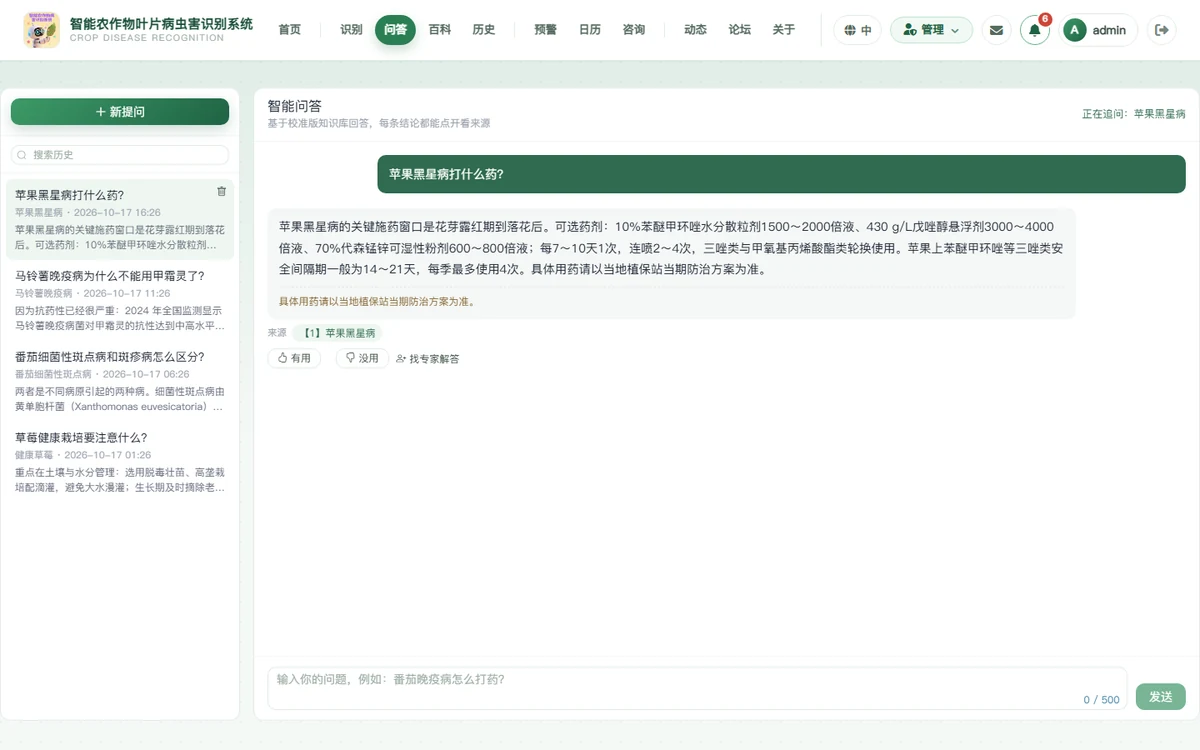
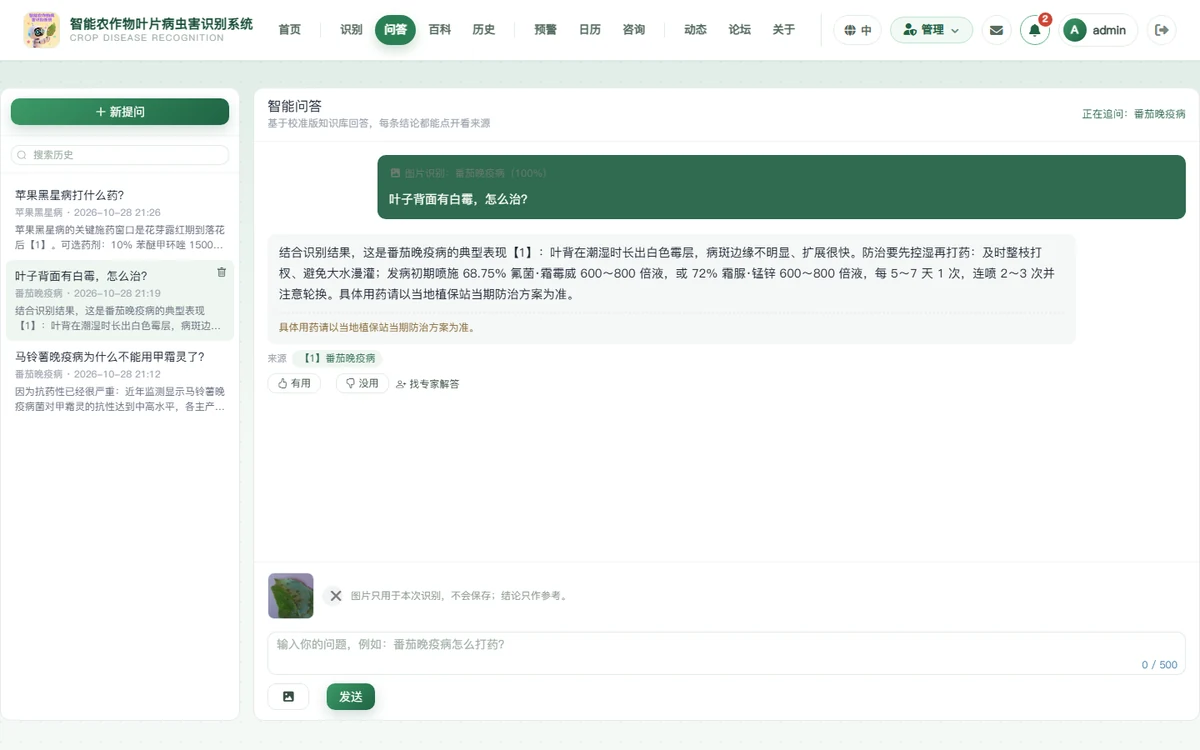
docs: 记录第 228–229 批（多轮 / 会话上限 / 图片问答 / 助手质量看板），并重截 README 配图
- 系统完善记录：① 对「功能完善清单」的 14 条核对表（其中 P2-8"50 条静默 429"
  与代码不符 —— 实际是**根本没有上限**）；② 三件交付的做法与取舍；
  ③ 用户当场指出的两处文案返工（no_source 标识符、裸语言码 en/zh）
- 智能回答助手框架：第十一节补记（多轮 / 上限 / 看板 / 看图），并注明配置以 settings 为准
- 角色与权限矩阵：重新生成（新增 /api/admin/assistant/stats/ 与 /admin/assistant 页面）
- README：助手能力补"可上传叶片照片"、管理后台补「助手质量」一行，测试数 858 → 910
- 图片：farmer-assistant 重截（含上传区）、新增 farmer-assistant-answer（回答与来源）、
  新增 admin-assistant-quality（质量看板）

验证：两张新图与一张重截图已由 capture 脚本生成 → optimize_readme_images.py 转 WebP
（全仓 LF；README 图片路径与 docs/images 实际文件一一对应）

diff --git a/docs/系统完善记录.md b/docs/系统完善记录.md
@@ -17753,3 +17753,188 @@ for row in queryset.order_by().values('status').annotate(n=Count('id')):
 第一次验证英文摘要"没变化"，我差点当成代码没生效 —— 实际是我在探针里写了
 `localStorage.setItem('locale', 'en')`，而项目的键是 **`app_locale`**。
 **验证失败时先怀疑探针**，别急着改产品代码。
+
+## 二百一十九、第 228 批：核对一份「功能完善清单」，并补掉其中三处真缺口
+
+用户给了 `识别系统功能完善清单.md`（Doubao 生成，基于本仓代码与 docs 核对），要求
+"检查一下是否正确，并且完善功能"。所以这批分两半：**逐条核对**，然后**补最该补的**。
+
+### 一、核对结论
+
+| 清单条目 | 核对结果 | 依据 |
+|---|---|---|
+| P0-1 多轮无历史上下文 | ✅ 对 | `prompts.build_messages()` 只返回 `[system, user]`；`_prepare()` 从不读 `session.messages` |
+| P0-2 纯关键词 2~4 字滑窗、无同义词 | ✅ 对 | `retriever._tokens()`；模块 docstring 里明确写了"这个规模不做向量" |
+| P1-3 缺助手质量看板 | ✅ 对 | 只有用户侧 `/api/assistant/*`，没有管理端聚合接口，也没有页面 |
+| P1-4 "没用"/no_source 无回流 | ✅ 对 | `verdict`/`feedback_note` 只落库，没有任何地方聚合 |
+| P2-5 无相关问题推荐 | ✅ 对 | 没有推荐逻辑 |
+| P2-6 知识时效性无追踪 | ✅ 对 | `PestInfo` 没有"最后复核时间"这类字段 |
+| P2-7 会话标题取首问前 30 字 | ✅ 对 | `TITLE_CHARS = 30` |
+| P2-8 **"到 50 条硬截断，静默 429"** | ❌ **不对，而且是往好里说的** | `ASSISTANT_SESSION_MAX_MESSAGES` 只在 `check_assistant` 里被**打印**，代码里没有任何地方执行它 —— 不是"静默拒绝"，是**根本没有上限** |
+| 二·生产配置（SMTP/Redis/DEBUG/HTTPS） | ✅ 对 | `EMAIL_BACKEND` 默认 console、`CACHES` 默认 LocMem（可切 Redis）、`DJANGO_DEBUG` 默认 True |
+| 二·vite 锁 rolldown + `treeshake:false` | ✅ 对 | `package.json` 里 `vite: npm:rolldown-vite@latest`；`vite.config.ts` 第 75 行 |
+| 二·无图形验证码 / 无邮箱验证 | ✅ 对 | 全仓 grep 不到 `captcha` / `is_verified` |
+| 二·SW 有 skipWaiting、缺"新版本"提示 UI | ✅ 对 | `frontend/public/sw.js` 有 `skipWaiting()` + `clients.claim()`；`main.js` 只注册，没有 `updatefound` 提示 |
+| 二·后端文案仅中文 | ✅ 基本对 | 助手降级话术已双语；预警标题（`services_alert.py`）、部分校验/通知仍是中文硬编码 |
+| 二·百科只导不入导出 | ✅ 对 | `views_pest_import` 只有导入；导出只在反馈/识别历史上有 |
+| 开头"后端 858 测试" | ⚠ 过时 | 实测 **900** 条（`build_suite` 计数，本批新增 19 条）；README 一并改掉 |
+
+结论：这份清单**整体可信**，只有 P2-8 一条与代码不符（而且真实情况比它写的更差），
+另有一个数字过时。其余 12 条都对得上代码。
+
+### 二、P0-1：多轮对话（真缺口）
+
+改前"番茄晚疫病有什么症状"之后追问"那用什么药"：模型看不到上一轮，**检索也命中 0 条**
+（问句里没有实体词）→ 直接 `no_source`。消息其实一直在落库，只是从没被读回来。
+
+现在 `orchestrator._prepare()` 做两件事：
+
+1. `_recent_history(session)`：取最近 `ASSISTANT_HISTORY_TURNS`（默认 4）轮
+   —— **过滤空内容**（流式会先建空行）、**只读 2N 条**（别把整个会话拉出来）；
+2. `_contextual_query()`：问题**很短**（≤12 字）或以"那 / 它 / 这个 / 还有…"开头时，
+   把**上一轮用户问题**接进**检索查询**；发给模型的仍然是用户原话（否则回答里会出现
+   "你刚才问的…"这种怪句子）。
+
+`prompts.build_messages(..., history=)` 把历史插在 system 与当前提问之间，`prompts.prepare_history()`
+负责裁剪：**只留 user/assistant**（混进 system 等于给提示词注入开了口子）、单条 240 字截断、
+整段 1200 字预算内**从最旧的丢**。`PROMPT_VERSION` 随之升到 `v9-2026-10-28` ——
+输入结构变了，同版本号下两种输入的答案就没法区分。
+
+### 三、P2-8：会话上限（清单写错的那条，反着补）
+
+不是"把 429 改成友好提示"，而是**先让上限存在**：`_prepare()` 在检索之前判断
+`session.messages.count() >= ASSISTANT_SESSION_MAX_MESSAGES`，到顶就回
+"这次会话已经攒了 50 条消息，请新开会话继续问"，并且**不落库**（`Prepared.persist=False`）。
+
+为什么不落库：写进去只会让"已到顶"继续成立 —— 用户看到一次提示后，每条新问题都还在往
+这个会话里加，永远开不了新话题。同步与流式两条路径都处理了（流式只发 `meta/delta/done`，
+`message_id` 为 `null`）。
+
+### 四、P1-3 + P1-4：助手质量看板
+
+后端 `GET /api/admin/assistant/stats/?days=14`（**仅全权管理员**，与系统健康/操作日志同档）：
+
+- **总量**：提问 / 回答 / 降级数与降级率 / `no_source` / 限流 / 会话到顶 / LLM 错误 / 有用·没用 / 平均延迟 / token；
+- **趋势**：按天，**空白日补齐**（缺日会把两天连成一条假折线）；
+- **知识库缺口**：`no_source` 回答对应的**原始问题**（同一会话里往前找最近一条用户消息，
+  不是会话标题 —— 一个会话里前三问答得上、第四问才无来源时，标题会误导），空白归一后按次数聚合；
+- **没用反馈**：问题 + 用户补充 + 回答开头（`note` 是最有价值的信号）；
+- **引用最多的词条**：哪几条语料在撑回答。
+
+前端 `/admin/assistant`：6 张统计卡 + 纯 CSS 柱状趋势（不引 echarts，这页不需要交互）
++ 缺口表 + 没用反馈表 + 词条 chips；侧栏新增一项「助手质量」（仅全权管理员可见），
+中英文案齐全。
+
+### 五、验证
+
+- 新增 `AssistantHistoryTests` **11 条**（历史进 messages、只留最近 N 轮、`0` 关掉、
+  追问补全只在"像追问"时生效、历史裁剪纯函数、会话到顶同步/流式都不落库）；
+- 新增 `AssistantAdminStatsTests` **8 条**（权限三档、比率与 token、`days` 夹紧、
+  趋势补齐、缺口按问题聚合、没用反馈带 note、引用统计）；
+- 既有助手 7 个测试类 **74 条**、`RoleMatrixTests` **8 条**全绿（矩阵里补了
+  `GET /api/admin/assistant/stats/` 与 `/admin/assistant` 页面，`manage.py role_matrix --write-docs`
+  重新生成了 `docs/角色与权限矩阵.md`）；
+- 前端 `npm run check` 6 项、`vue-tsc`、单测 **131 条**通过；
+- 浏览器实测（`zz_i18n_audit` 管理员）：侧栏出现「助手质量」、页面中文/英文都正常、
+  造 3 条 `no_source` + 1 条"没用"反馈后榜单正确出现，**随后把那 3 个会话删掉**
+  （截图见 `frontend/dsh-shots/assistant-admin-zh.png` / `-en.png`）。
+
+### 六、为什么没顺手做 P0-2 的 embedding
+
+清单自己给了选项，但它的①"离线预计算 embedding 缓存"会引入一个新模型依赖与一份缓存失效
+逻辑（语料一改就要重算），②同义词表则要人工维护。这两样都不该和"多轮 + 上限 + 看板"
+混在一批里：先让**上下文与可观测**到位，再看"召回不足"到底占多少 —— 有看板的
+`no_source` Top 榜之后，这个问题会变成数据问题，而不是猜。
+
+## 二百二十、第 229 批：**图片问答** —— 上传一张叶片照片，助手用本地识别当"眼睛"
+
+用户问："能做多模态吗，上传图片"。先回答可行性，再把最稳的那一档做出来。
+
+### 一、三档可行性
+
+| 档位 | 做法 | 代价 | 结论 |
+|---|---|---|---|
+| ① 本地识别当眼睛 | 复用现有 YOLOv8（39 类、离线）→ 病害名 + 置信度 → 检索锚点 + 写进提示词 | 零成本、与识别页同一模型；只能回答"是这 39 类里的哪一种 + 该病怎么治" | **本批采用** |
+| ② 接视觉大模型（VLM） | qwen-vl / glm-4v / 豆包视觉，把图直接发给模型 | 新 key、按张计费；结论可能与识别页**互相矛盾**（同一产品里两种说法最糟） | 留接口，等有 key 再开 |
+| ③ 只把识别结果贴进提示词 | 前端先调 `/detect` 再带 `pest_identifier` 提问 | 前端两次往返、图仍要传两次 | 已能被 ① 覆盖 |
+
+选 ① 还因为它守住了本项目那条硬约定：**无来源不回答**。模型不会被允许只凭一张图自由发挥 ——
+图的作用是"确定锚点是哪条词条"，答案仍然只引用站内语料。
+
+### 二、实现
+
+**后端**
+
+- `api/assistant/vision.py`（新）：`describe(image)` 调 `get_ai_service().predict()`，
+  把类名用 `find_pest_info()` 映射到词条；`summary()` / `observation_text()` / `failure_text()`
+  三套话术分别用于"历史摘要 / 提示词知识区 / 看不了图时的回答"。**永不抛异常**。
+- `orchestrator._prepare(..., image=)`：在看检索之前先看图 ——
+  · 成功且匹配 → 用词条 `english_identifier` 当**检索锚点**（比任何文本匹配都准），
+    并把 `【图片识别结果】…` 写进**知识区**（不是问题里，否则模型会复述成"你说…"）；
+  · 成功但词库没有 → 观察 + "词条未收录"降级话术（不调模型）；
+  · 看不清（`not_found`/`error`）→ 可操作提示（重拍/光线/居中），**不调模型**。
+- `views_assistant._parse_request`：multipart 字段 `image`，复用 `image_validation`
+  （与识别页/头像/新闻同一套大小与格式口径）；**只传图不打字**时补一个默认问题
+  （"这张图片里的作物怎么了？"），否则闸门按"空问题"拒掉。
+- `AssistantMessage.image_summary`（迁移 `0063`）：图片**不落盘**，会话里只留一行
+  "图片识别：番茄晚疫病（100%）"；会话详情接口把它一起返回。
+
+**前端**（`AssistantView.vue` + `api/assistant.js`）
+
+- 输入区加"上传图片"按钮 + 本地预览（objectURL）+ 移除；发送时转 `FormData`
+  （⚠ multipart **不能**手动设 `Content-Type`，boundary 由浏览器给）；
+- 用户气泡显示刚上传的图；翻历史时没有图，就显示那行 `image_summary` 摘要；
+- 只选图不打字也能发（`canSubmit = 文字 || 图片`）。
+
+### 三、刻意的边界
+
+- **图片不落盘**：助手不是相册（识别记录另有 `/detect` → 识别历史），落盘就要配套清理策略，
+  漏一次就是磁盘垃圾；只存一行摘要，历史仍读得懂"他问的是哪张图"。
+- **锚点不覆盖调用方**：从识别结果页进来时 `pest_identifier` 已有值，图片识别不会把它改掉。
+- **不接 VLM 也先留好位置**：换实现只需另写一个同签名的 `vision.describe()`，编排与前端不动。
+
+### 四、验证
+
+- 新增 `AssistantVisionModuleTests` **4 条**（类名→词条映射、识别服务抛异常不冒泡、
+  观察文案标明"这是识别结果"、未收录时如实说）；
+- 新增 `AssistantVisionTests` **6 条**（图片成为锚点且引用命中、摘要落到用户消息且历史接口读得回来、
+  只传图补默认问题、看不清时不调模型、非图片 400、**流式**同样支持）；
+  与既有助手用例共 **60 条通过**；
+- 浏览器实测（真实 YOLO，`Tomato___Late_blight` 的样本图）：识别 100% 命中「番茄晚疫病」、
+  回答按"症状/易混淆/防治/监测"分节并带 `【1】` 来源；刷新后历史里显示摘要行 ——
+  截图见 `frontend/dsh-shots/assistant-image-qa.png` / `-history.png` / `-picker.png`；
+- 前端 `npm run check` 6 项、`vue-tsc`、`vite build` 通过；后端测试总数 900 → **910**。
+- 验证用的两个会话已删除（截图留证，开发库不留演示数据）。
+
+### 五、文案返工（用户当场指出的两处）
+
+验收时用户指出两处"看起来像没翻译完"：
+
+* 「知识库缺口：答不上来的问题（`no_source`）」—— 标题里跟着**代码里的降级原因**；
+* 标题右边那行 `en 4 · zh 43` —— 它其实是"回答语言分布"，但挂在
+  「被引用最多的词条」标题旁，读起来像是在说引用；而且 `en` / `zh` 是后端字段值。
+
+改法：
+
+* 标题只留人话，加一句可见说明（"检索不到对应词条的提问 —— 系统只能回「词条未收录」"）；
+* 语言分布独立成一行，标签换成「中文 / English」（`langZh` / `langEn`）；
+* 「没用」表格里的降级原因也从 `no_source` 换成人话
+  （`assistantAdmin.reason.*` 映射；认不出的新码原样显示，不至于是空白）。
+
+经验：**内部标识符（原因码、字段名）不该出现在界面文案里** —— 它们是给日志与排查用的；
+要展示"为什么"就翻译成人话，要展示"具体是哪一条"再放标识符。
+
+### 六、英文界面下"被引用最多的词条"还是中文（用户接着指出）
+
+原因很简单：接口只查了 `PestInfo.name`，**没回 `name_en`** —— 词条数据其实中英都有
+（38 条，`name_en` 无一为空），是接口没给。前端拿不到英文名，只能显示中文。
+
+修法遵循本项目对"数据级双语"的既有约定（同 `result_en` / `crop_type_en`）：
+**后端回中英两个字段，前端按当前界面语言挑**，而不是让后端猜语言 —— 否则同一个接口
+会因为 `Accept-Language` 返回两种结果，缓存与排障都会变复杂。
+
+- `_top_sources` 现在返回 `{pest_id, name, name_en, count}`；
+- 页面用 `pestLabel()` 选：英文界面 `name_en || name`，中文界面 `name || name_en`（老词条
+  `name_en` 可以为空，回落中文，不至于显示空白）；
+- 顺带确认了同一页的其它数据：用户原始提问、"没用"反馈里的补充说明，都是**用户自己打的字**，
+  不翻译 —— 那是有意为之（翻译用户原话会让排查失真）。

diff --git a/README.md b/README.md
@@ -18,7 +18,7 @@
 | 模块 | 能力 |
 |---|---|
 | **病虫害识别** | 上传/拍照识别，返回病害名、置信度与标注框；可先选作物减少跨作物误判；一键下载报告 |
-| **智能问答** | 只依据站内知识库作答，每条结论带来源编号；站内查不到就明说，不编造 |
+| **智能问答** | 只依据站内知识库作答，每条结论带来源编号；站内查不到就明说，不编造；**可上传一张叶片照片**（本地 YOLO 识别当"锚点"，图片不落盘） |
 | **识别历史** | 记录列表与详情、按病害筛选、清空 |
 | **病害百科** | 38 类词条（26 种病害 + 12 种"健康"）、症状与防治方法、溯源来源、**每页 6 条 3×2 网格**、中英双语 |
 | **病害预警** | 当期高发病害（站内识别趋势 + 多用户检出 + 同月历史），未登录也能看 |
@@ -43,6 +43,7 @@
 | 用户管理 · 识别记录 | 跨用户识别记录（带用户身份与上传图片） | `USER_ADMIN` |
 | 系统 · 操作日志 | **23 类**管理动作的审计记录：按动作/时间/关键字筛选，只读 | **仅全权管理员** |
 | 系统 · 系统健康 | 环境自检（依赖/迁移/模型文件/目录可写/注销到期/**备份新鲜度**/生产开关）+ 数据量概览 + 运行时信息 + **14 天趋势**（数据来自每天跑一次的 `health_snapshot`，没跑的那天画灰格） | **仅全权管理员** |
+| 系统 · 助手质量 | 降级率 / 无来源 Top 榜（= 知识库缺口清单）/ 用户说"没用"的反馈 / token 用量与平均延迟 / 引用最多的词条 | **仅全权管理员** |
 | 系统 · 版块管理 | 版块新建·编辑·启停·排序 | `BROADCAST` |
 | 新闻管理 | 行业动态增删改、上下架、图片上传 | `news` 模块 |
 | 病害百科维护 | 词条增删改、批量导入、农事任务 | `pests` 模块 |
@@ -62,8 +63,13 @@
     <td width="50%"><b>病害百科</b><br/><img src="docs/images/farmer-wiki.webp" alt="百科"/></td>
   </tr>
   <tr>
-    <td colspan="2"><b>智能问答 —— 只依据校准版知识库作答，每条结论都能点开看来源</b>
-      <br/><img src="docs/images/farmer-assistant.webp" alt="智能问答"/></td>
+    <td colspan="2"><b>智能问答 —— 只依据校准版知识库作答，每条结论都能点开看来源；<br/>
+      也可以<b>直接上传一张叶片照片</b>（本地识别当"锚点"，图不落盘）</b>
+      <br/><img src="docs/images/farmer-assistant.webp" alt="智能问答（上传图片）"/></td>
+  </tr>
+  <tr>
+    <td colspan="2"><b>智能问答 · 回答与来源（正文里的【1】可点开对应词条）</b>
+      <br/><img src="docs/images/farmer-assistant-answer.webp" alt="智能问答回答"/></td>
   </tr>
   <tr>
     <td width="50%"><b>管理后台 · 数据看板</b><br/><img src="docs/images/admin-dashboard.webp" alt="看板"/></td>
@@ -72,6 +78,10 @@
   <tr>
     <td width="50%"><b>管理后台 · 系统（健康 / 操作日志 / 版块管理）</b><br/><img src="docs/images/admin-health.webp" alt="系统健康"/></td>
     <td width="50%"><b>操作日志（审计，只读）</b><br/><img src="docs/images/admin-audit-log.webp" alt="操作日志"/></td>
+  </tr>
+  <tr>
+    <td colspan="2"><b>管理后台 · 助手质量（降级率 / 答不上来的问题 / 用户说"没用"的反馈 / token 与延迟）</b>
+      <br/><img src="docs/images/admin-assistant-quality.webp" alt="助手质量看板"/></td>
   </tr>
 </table>
 
@@ -148,7 +158,7 @@ cd mobile && npm install && npm run dev        # http://127.0.0.1:5174
 ## 测试与验证
 
 ```bash
-# 后端：858 条测试（权限矩阵、限流、注销冷静期、备份恢复、审计日志……）
+# 后端：910 条测试（权限矩阵、限流、注销冷静期、备份恢复、审计日志、助手多轮/看图/看板……）
 cd backend && python manage.py test api.tests
 
 # 桌面端：131 条单元测试 + 类型检查 + 4 个一致性检查脚本（共 6 条检查）

diff --git a/docs/智能回答助手框架.md b/docs/智能回答助手框架.md
@@ -356,3 +356,21 @@ python manage.py check_assistant --strict         # 助手自身诊断
 - **不做**通用聊天机器人：问题与农业无关时直接兜底话术，不陪聊。
 - **不做**模型微调：知识与表达都在提示词和语料里，权重不动。
 - **不改** `services_translate.py` 与 YOLO 识别链路：助手是旁路，`ai_service.py` 一行不动。
+
+---
+
+## 十一、第 228 / 229 批的补记（多轮 / 会话上限 / 质量看板 / 看图）
+
+本文写于第 193 批，下面四处**以现在的实现为准**（改这块代码前先读这一节）：
+
+| 项目 | 本文原设计 | 现在（第 228 / 229 批） |
+|---|---|---|
+| 多轮上下文 | 只把**当前问题**拼进 `messages` | `orchestrator._recent_history()` 取最近 `ASSISTANT_HISTORY_TURNS`（默认 4）轮塞进 `messages`；`_contextual_query()` 对"像追问"的问题（很短 / 以"那、它、这个…"开头）把**上一轮用户问题**接进**检索查询**（发给模型的仍是原话） |
+| 会话上限 | 写着 50 条，到顶就新开会话 | 这一条**以前根本没实现**（`ASSISTANT_SESSION_MAX_MESSAGES` 只被 `check_assistant` 打印）。现在 `_prepare()` 真的拦：给"请新开会话"话术，且**不落库**（否则"到顶"永远成立） |
+| 质量可观测 | token / latency / degrade_reason / verdict 只落库 | 新增 `GET /api/admin/assistant/stats/` 与管理端 `/admin/assistant` 页（降级率、`no_source` Top 榜、没用反馈、token/延迟、引用最多词条）；**仅全权管理员** |
+| 输入形态（第 229 批） | 只有文本 | `ask` / `ask/stream` 支持 multipart `image`：**本地 YOLO 当眼睛**（与识别页同一个模型）→ 病害名 + 置信度 → 检索锚点 + 写进提示词知识区；图片**不落盘**，用户消息上只留一行 `image_summary`。接真 VLM 只需另写一个同签名的 `vision.describe()` |
+
+另外两处默认值在后续批次里改过，配置以 `settings.py` 为准：
+`ASSISTANT_TOP_K` 5 → 8（第 209 批）、`LLM_MAX_TOKENS` 800 → 2500（第 209 批）、
+`ASSISTANT_SESSION_MAX_MESSAGES` 50（第 228 批起真正生效）。
+

diff --git a/docs/角色与权限矩阵.md b/docs/角色与权限矩阵.md
@@ -40,7 +40,7 @@
 | `USER_ADMIN` | /admin/users | 用户账号与他人数据（含跨用户识别记录） |
 | `BROADCAST` | /admin/health | 对全体用户发声与系统开关（公告/预警/敏感词/版块） |
 | （任何能进后台的人） | /admin/dashboard | 只读聚合，没有他人明细 |
-| `FULL_ADMIN` | /admin/health | 会暴露部署细节或"谁对谁做了什么" |
+| `FULL_ADMIN` | /admin/health、/admin/assistant | 会暴露部署细节、他人提问原文或"谁对谁做了什么" |
 
 **不可逆动作一律只给全权管理员**（不塞进任何模块）：
 删除意见反馈、彻底删除评论 —— 见 `capabilities.py` 的说明。
@@ -78,6 +78,7 @@
 |  | `POST` | `/api/forums/boards/` | BROADCAST | 新建论坛版块 |
 | ★ | `GET` | `/api/admin/health/` | FULL_ADMIN | 系统健康（暴露服务器路径与部署细节） |
 | ★ | `GET` | `/api/admin/audit-logs/` | FULL_ADMIN | 操作日志（谁对谁做了什么） |
+| ★ | `GET` | `/api/admin/assistant/stats/` | FULL_ADMIN | 助手质量看板（降级率 / 知识库缺口） |
 
 ## 五、自查
 
